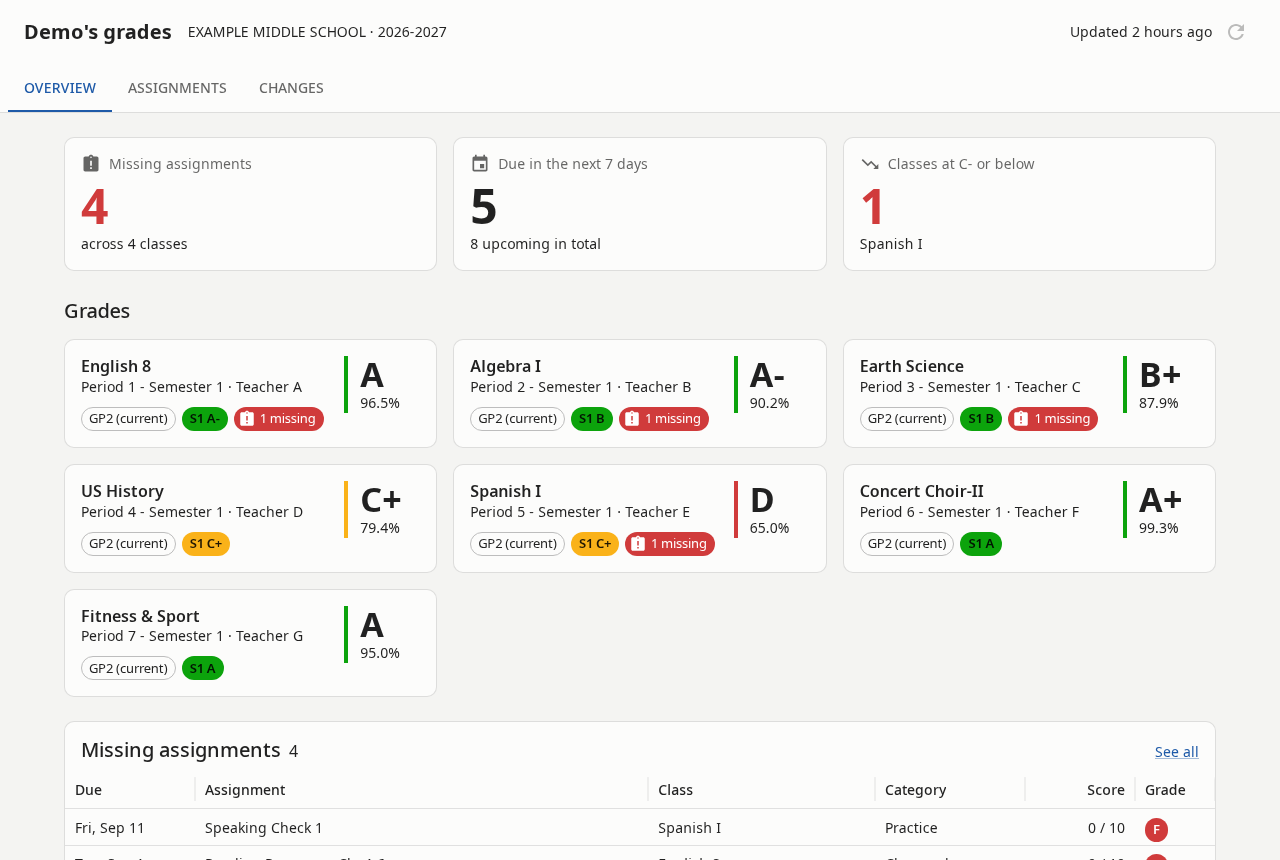
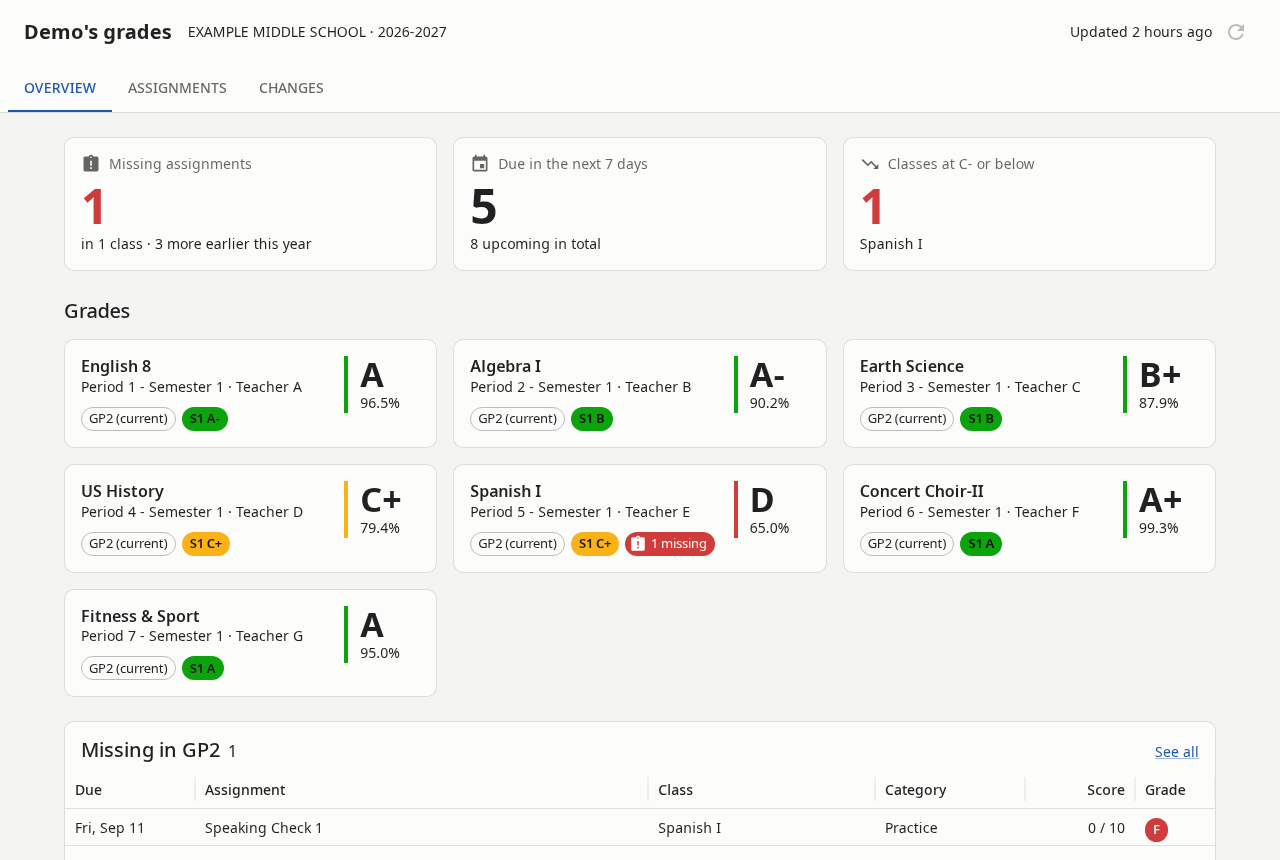
Release 0.4.0

diff --git a/docs/releases/0.4.0.md b/docs/releases/0.4.0.md
@@ -1,0 +1,21 @@
+Missing assignments now count the same way Skyward does.
+
+## What's changed
+
+- **Missing counts cover the current grading period.** Skyward shows missing work for the
+  grading period you're in, but the dashboard counted every missing assignment since the start of
+  the year, so the two numbers didn't match. The overview, the class cards, the class page and
+  the badge on the Assignments tab now count only the current grading period, and say how many
+  more are missing from earlier in the year.
+- **All year is one tap away.** On the Assignments page, the Missing filter has a new
+  *This grading period / All year* switch.
+- The overview says "in 1 class" instead of "across 1 classes".
+
+## Upgrading
+
+`docker compose up -d` picks this up if you have `pull_policy: always`. Otherwise run
+`docker compose pull && docker compose up -d`. To stay on this release, set the image line to:
+
+```yaml
+    image: afraley/skyward-dashboard:0.4.0
+```
